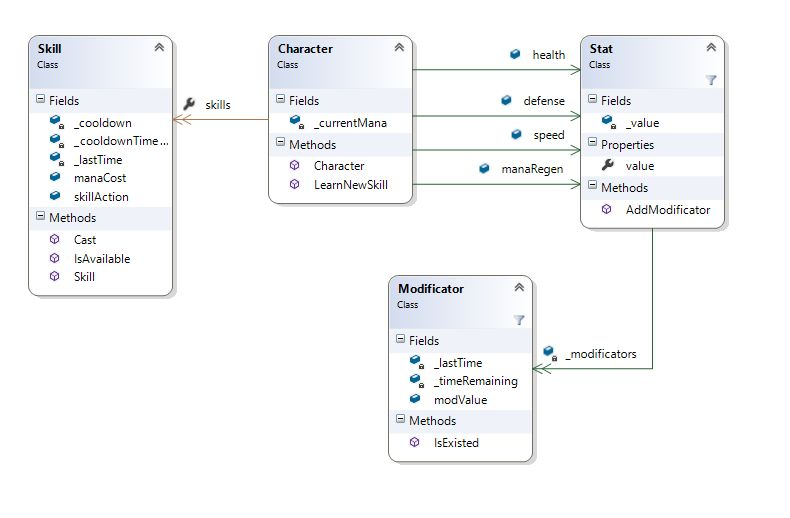
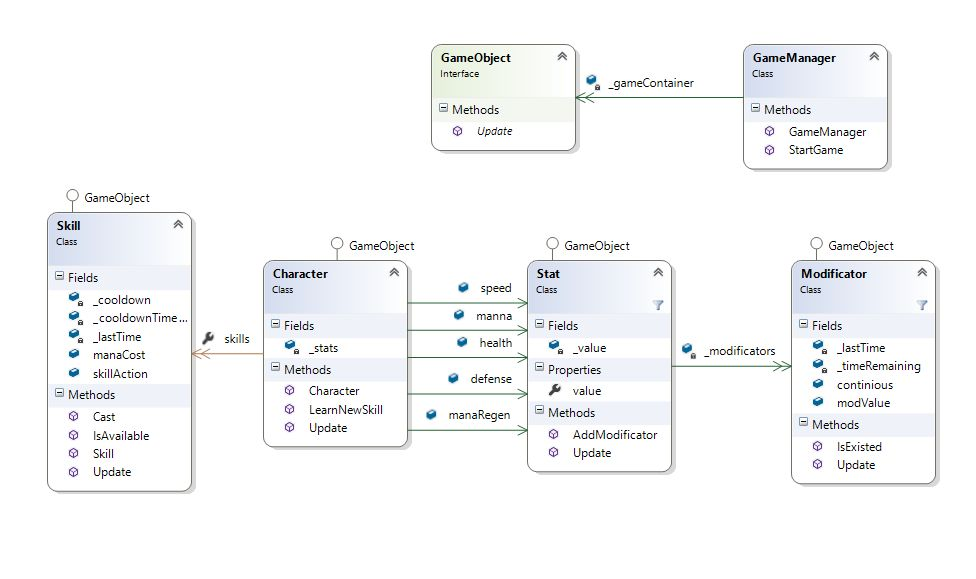
Continious skills

Changed region(s): [[0.0304, 0.0618, 0.9722, 0.8958], [0.1823, 0.0618, 0.2127, 0.0927]]

diff --git a/GameRPGpingpong/Modificator.cs b/GameRPGpingpong/Modificator.cs
@@ -8,17 +8,25 @@ namespace GameRPGpingpong
 {
 
 	// This class represents buffs or debuffs
-	public class Modificator
+	public class Modificator : GameObject
 	{
 		public readonly int modValue; // Can be positive or negative value
+		public readonly bool continious;
 		private double _timeRemaining; // Remaining time in seconds
 		private double _lastTime;
 
-		public Modificator(int modValue, double timeRemaining)
+		/// <summary>
+		/// 
+		/// </summary>
+		/// <param name="modValue">To reduce stat once or every second</param>
+		/// <param name="timeRemaining">Remaining time...</param>
+		/// <param name="continiously">Will a stat be reduced once or continiously</param>
+		public Modificator(int modValue, double timeRemaining, bool continiously = false)
 		{
 			this.modValue = modValue;
 			_timeRemaining = timeRemaining;
 			_lastTime = 0; //current system time
+			this.continious = continiously;
 		}
 
 		/// <summary>
@@ -27,12 +35,12 @@ namespace GameRPGpingpong
 		/// <returns>True = modif. exists. False = modif.'s time was out</returns>
 		public bool IsExisted()
 		{
-			var currentTime = 0; // Get current system time
-			_timeRemaining -= currentTime - _lastTime;
-			_lastTime = currentTime;
-
 			return _timeRemaining > 0;
 		}
 
+		public void Update(double deltaTime)
+		{
+			// reduce time
+		}
 	}
 }

diff --git a/GameRPGpingpong/Character.cs b/GameRPGpingpong/Character.cs
@@ -6,29 +6,38 @@ using System.Threading.Tasks;
 
 namespace GameRPGpingpong 
 {
-	public class Character
+	public class Character : GameObject 
 	{
 		public readonly Stat health;
 		public readonly Stat speed;
 		public readonly Stat manaRegen;
 		public readonly Stat defense;
-		private int _currentMana;
-
+		public readonly Stat manna;
+		
 		public List<Skill> skills { get; }
+
+		private readonly List<Stat> _stats; 
 
 		public Character(int health, int speed, int manaRegen, int defense)
 		{
-			this.health = new Stat(health);
-			this.speed = new Stat(speed);
-			this.manaRegen = new Stat(manaRegen);
-			this.defense = new Stat(defense);
+			_stats.Add(this.health = new Stat(health));
+			_stats.Add(this.speed = new Stat(speed));
+			_stats.Add(this.manaRegen = new Stat(manaRegen));
+			_stats.Add(this.defense = new Stat(defense));
+			_stats.Add(manna = new Stat(100));
 			skills = new List<Skill>();
-			_currentMana = 100;
 		}
 
 		public void LearnNewSkill(Skill skill) => skills.Add(skill);
 		
 		/* Here will be some player controls or AI system to cast skills */
 
+		public void Update(double deltaTime)
+		{
+			foreach (Stat stat in _stats)
+			{
+				stat.Update(deltaTime);
+			}
+		}
 	}
 }

diff --git a/GameRPGpingpong/Skill.cs b/GameRPGpingpong/Skill.cs
@@ -6,7 +6,7 @@ using System.Threading.Tasks;
 
 namespace GameRPGpingpong 
 {
-	public class Skill
+	public class Skill : GameObject
 	{
 		public readonly int manaCost;
 		public readonly Action<Character> skillAction;
@@ -26,18 +26,11 @@ namespace GameRPGpingpong
 		/// <summary>
 		/// Find out can character use this skill or not 
 		/// </summary>
-		/// <param name="manaOfTheCaster">Character passes their currentMana as parameter 
+		/// <param name="manaOfTheCaster">Character passes their manna as parameter 
 		/// to find out it's enough or not</param>
 		/// <returns>True = the character can use this skill. False = can't yet</returns>
 		public bool IsAvailable(int manaOfTheCaster)
 		{
-			if (_cooldownTimeRemaining > 0)
-			{
-				var currentTime = 0; //current sys time
-				_cooldownTimeRemaining -= currentTime - _lastTime;
-				_lastTime = currentTime;
-			}
-
 			return _cooldownTimeRemaining <= 0 && manaOfTheCaster >= manaCost;
 		}
 
@@ -58,5 +51,9 @@ namespace GameRPGpingpong
 				Console.WriteLine("Not yet!");
 		}
 
+		public void Update(double deltaTime)
+		{
+			// reduce cooldown time
+		}
 	}
 }

diff --git a/GameRPGpingpong/SkillsFactory.cs b/GameRPGpingpong/SkillsFactory.cs
@@ -13,10 +13,14 @@ namespace GameRPGpingpong
 
 		// Positive skills
 		public static Skill StrengthOfGods() => 
-			new Skill(50, character => character.health.AddModificator(new Modificator(+40, 40)));
+			new Skill(50, character => character.defense.AddModificator(new Modificator(+40, 40)));
 
 		public static Skill BulletEnergy() =>
 			new Skill(20, character => character.speed.AddModificator(new Modificator(+50, 7)));
+
+		// Heals by 15 every second during 5 seconds. 75 at all
+		public static Skill TastyJuicefall() =>
+			new Skill(45, character => character.health.AddModificator(new Modificator(+15, 5, true)));
 
 		// Negative skills
 		public static Skill ArmorBreak() =>
@@ -24,6 +28,10 @@ namespace GameRPGpingpong
 
 		public static Skill ManaBurn() =>
 			new Skill(35, character => character.manaRegen.AddModificator(new Modificator(-30, 15)));
+
+		// This skill will reduce character's mana by 8 every second during 10 seconds. 80 mana at all
+		public static Skill ManaVoid() =>
+			new Skill(35, character => character.manna.AddModificator(new Modificator(-8, 10, true)));
 
 	}
 }

diff --git a/GameRPGpingpong/Stat.cs b/GameRPGpingpong/Stat.cs
@@ -7,9 +7,9 @@ using System.Threading.Tasks;
 namespace GameRPGpingpong 
 {
 	// Represent different characteristics of characters
-	public class Stat
+	public class Stat : GameObject 
 	{
-		private readonly int _value;
+		private int _value;
 		public int value
 		{
 			get
@@ -18,17 +18,16 @@ namespace GameRPGpingpong
 				int k = 0;
 				while (k < _modificators.Count)
 				{
-					if (_modificators[k].IsExisted())
-					{
+					if (_modificators[k].IsExisted() && !_modificators[k].continious)
 						val += _modificators[k].modValue;
-						k++;
-					}
-					else
-						_modificators.RemoveAt(k);
+
+					k++;
 				}
 
 				return val;
 			}
+
+			set { _value = value; }
 		}
 
 		private readonly List<Modificator> _modificators;
@@ -44,5 +43,16 @@ namespace GameRPGpingpong
 			_modificators.Add(mod);
 		}
 
+		public void Update(double deltaTime)
+		{
+			foreach (Modificator mod in _modificators)
+			{
+				mod.Update(deltaTime);
+
+				// delete modificators which time was expired
+
+				// Reduce stat's value if current modificator is continious
+			}
+		}
 	}
 }

diff --git a/GameRPGpingpong/GameManager.cs b/GameRPGpingpong/GameManager.cs
@@ -9,11 +9,11 @@ namespace GameRPGpingpong
 	public class GameManager
 	{
 
-		private readonly List<Character> _characters;
+		private readonly List<GameObject> _gameContainer;
 
 		public GameManager()
 		{
-			_characters = new List<Character>();
+			_gameContainer = new List<GameObject>();
 		}
 
 		public void StartGame()
@@ -29,8 +29,18 @@ namespace GameRPGpingpong
 			thief.LearnNewSkill(SkillsFactory.BulletEnergy());
 			thief.LearnNewSkill(SkillsFactory.ManaBurn());
 
-			_characters.Add(zelda);
-			_characters.Add(thief);
+			_gameContainer.Add(zelda);
+			_gameContainer.Add(thief);
+
+			while (true)
+			{
+				var dt = 0; // get delta time
+
+				// Players play the game. Controls, events lalallal etc
+				foreach (var o in _gameContainer)
+					o.Update(dt);
+			}
+
 		}
 	}
 }

diff --git a/GameRPGpingpong/GameObject.cs b/GameRPGpingpong/GameObject.cs
@@ -6,11 +6,10 @@ using System.Threading.Tasks;
 
 namespace GameRPGpingpong 
 {
-	class Program 
+	public interface GameObject
 	{
-		static void Main(string[] args)
-		{
 
-		}
+		void Update(double deltaTime);
+
 	}
 }
